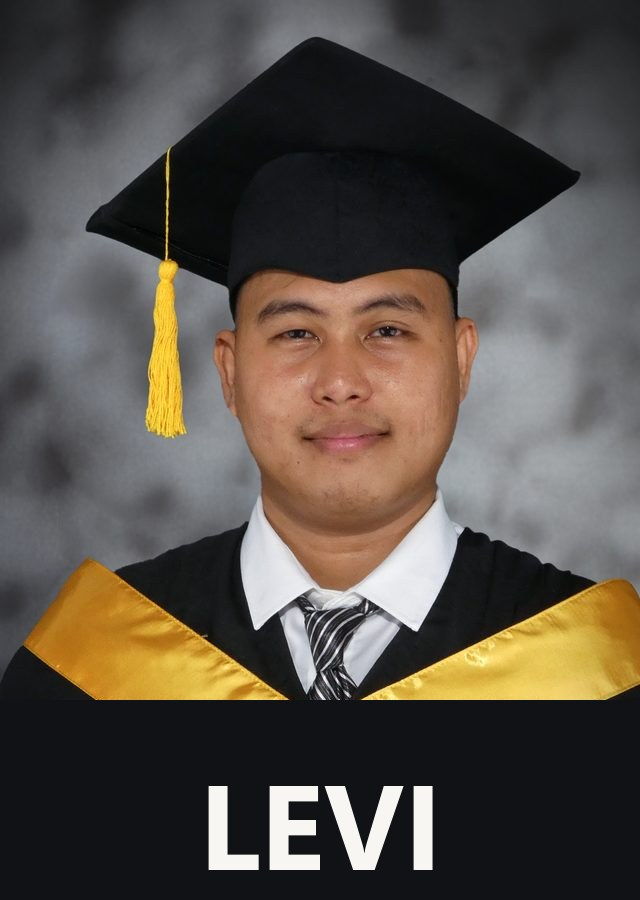
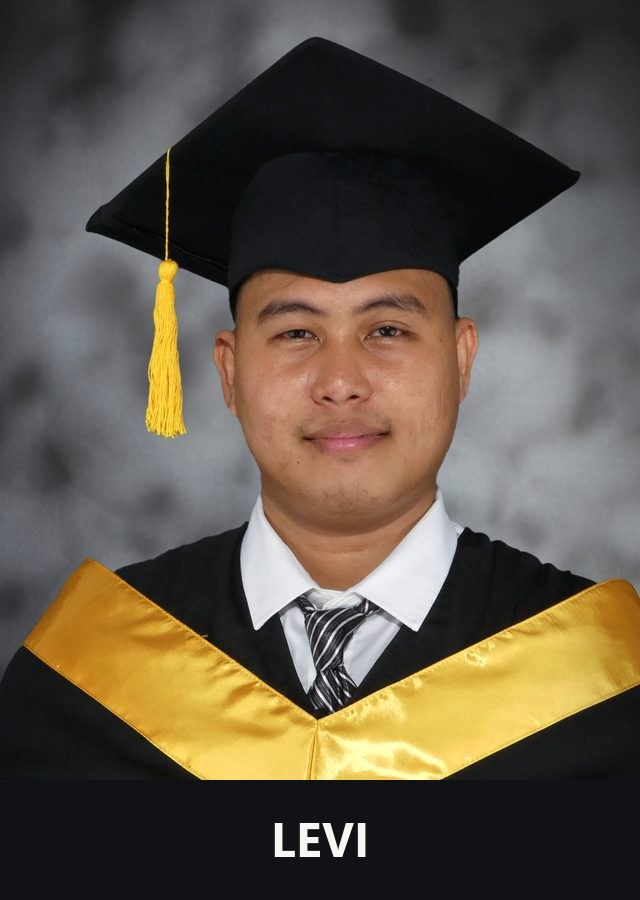
feat(hero): lengthen the band, raise the badge, shrink the name
The rope grows and its anchor rises by the same amount, so the band now
runs to the top of the frame without the card dropping. The camera lifts
the card and the stage is shorter, which brings the address, the email and
the social links up level with the download button. The printed name is
40 percent of its former size with the dark band trimmed to fit it.

Changed region(s): [[0.1562, 0.7778, 0.9375, 0.9644]]

diff --git a/src/components/lanyard/Lanyard.jsx b/src/components/lanyard/Lanyard.jsx
@@ -176,9 +176,9 @@ function Band({
   const [dragged, drag] = useState(false);
   const [hovered, hover] = useState(false);
 
-  useRopeJoint(fixed, j1, [[0, 0, 0], [0, 0, 0], 1]);
-  useRopeJoint(j1, j2, [[0, 0, 0], [0, 0, 0], 1]);
-  useRopeJoint(j2, j3, [[0, 0, 0], [0, 0, 0], 1]);
+  useRopeJoint(fixed, j1, [[0, 0, 0], [0, 0, 0], 1.5]);
+  useRopeJoint(j1, j2, [[0, 0, 0], [0, 0, 0], 1.5]);
+  useRopeJoint(j2, j3, [[0, 0, 0], [0, 0, 0], 1.5]);
   useSphericalJoint(j3, card, [
     [0, 0, 0],
     [0, 1.5, 0]
@@ -224,7 +224,7 @@ function Band({
 
   return (
     <>
-      <group position={[0, 4, 0]}>
+      <group position={[0, 5.5, 0]}>
         <RigidBody ref={fixed} {...segmentProps} type="fixed" />
         <RigidBody position={[0.5, 0, 0]} ref={j1} {...segmentProps}>
           <BallCollider args={[0.1]} />

diff --git a/src/components/resume/HeroPortrait.tsx b/src/components/resume/HeroPortrait.tsx
@@ -81,7 +81,7 @@ export default function HeroPortrait() {
     <div className={styles.stage}>
       <Suspense fallback={<StaticPortrait />}>
         <Lanyard
-          position={[0, -1.4, 9]}
+          position={[0, -2.3, 9]}
           gravity={[0, -40, 0]}
           fov={22}
           frontImage="/images/id-card.jpg"

diff --git a/src/components/resume/HeroPortrait.module.css b/src/components/resume/HeroPortrait.module.css
@@ -9,8 +9,8 @@
 }
 
 .stage {
-  --lanyard-height: 34rem;
+  --lanyard-height: 26rem;
   inline-size: 22rem;
-  block-size: 34rem;
+  block-size: 26rem;
   cursor: grab;
 }
